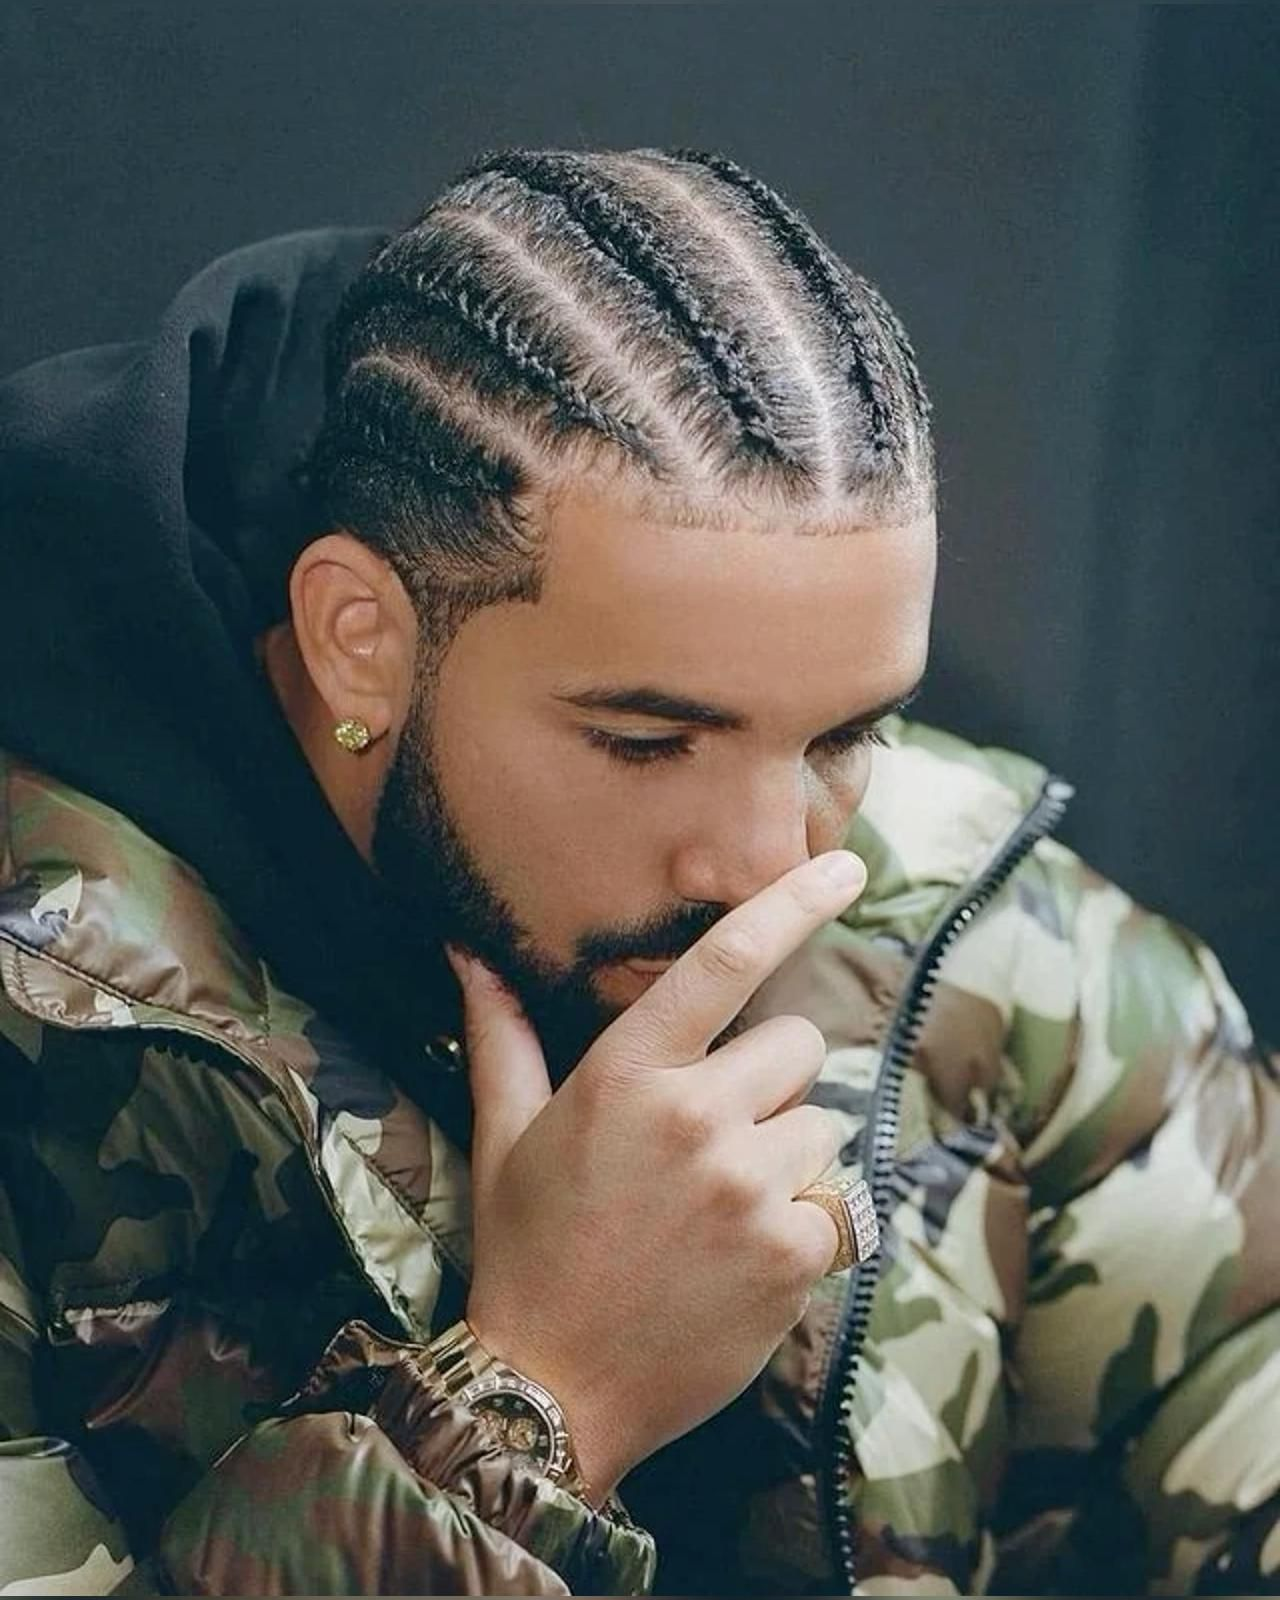
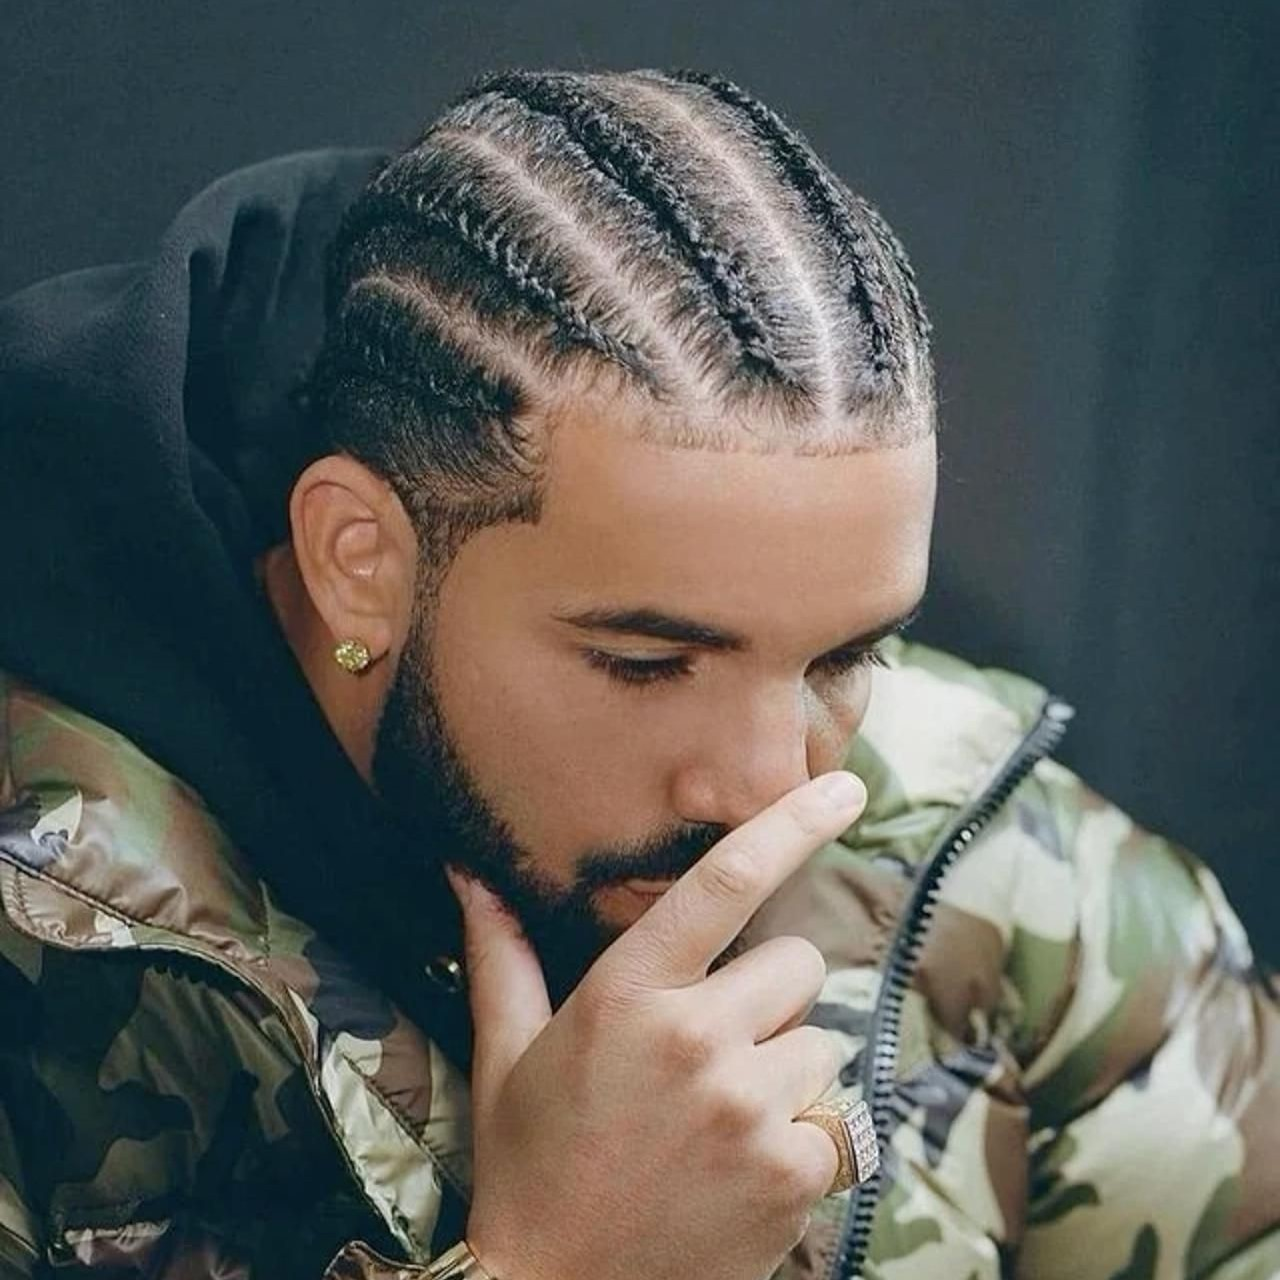
:lipstick: feat: Altera o layout CSS da página inicial

diff --git a/index.html b/index.html
@@ -5,64 +5,93 @@
     <meta charset="UTF-8">
     <meta name="viewport" content="width=device-width, initial-scale=1.0">
     <title>Meu Perfil</title>
-    <link rel="stylesheet" href="./assets/css/style.css">
+    <link rel="stylesheet" href="./assets/css/reset.css" />
+    <link rel="stylesheet" href="./assets/css/style.css" />
 </head>
 
 <body>
-    <ul id="menu">
-        <li>
-            <a href="index.html">Home</a>
-        </li>
-        <li>
-            <a href="contato.html">Contato</a>
-        </li>
-    </ul>
+    <header>
+        <nav>
+            <img class="logo" src="./assets/img/logo.png" alt="Imagem do logotipo com o nome gabzoom">
 
-    <h1 class="center">Sobre o Gabriel</h1>
+            <ul id="menu">
+                <li>
+                    <a href="index.html">Home</a>
+                </li>
+                <li>
+                    <a href="contato.html">Contato</a>
+                </li>
+            </ul>
+        </nav>
+    </header>
 
+    <main>
+        <h1 class="center">Sobre o Gabriel</h1>
 
-    <div class="container">
-        <div class="p-30">
-            <p class="center">
-                Lorem ipsum dolor sit amet consectetur adipisicing elit. Nam assumenda provident officiis quos maxime
-                dolores
-                sint quidem fuga suscipit fugiat veritatis excepturi quaerat, perspiciatis repellendus in omnis odio
-                harum
-                iste!
-                Lorem ipsum, dolor sit amet consectetur adipisicing elit. Cum ipsam ullam, eum impedit reprehenderit
-                molestias.
-                Illum, hic optio harum placeat dignissimos iusto et amet eaque eum voluptatem quos, possimus commodi.
-            </p>
+        <div class="container">
+            <img class="br-50 wh-250 p-30" src="assets/img/drizzy.jpg" alt="Foto do criador desse conteúdo">
 
-            <p class="center">
-                Lorem ipsum dolor sit, amet consectetur adipisicing elit. Beatae reprehenderit ad quod facilis,
-                quibusdam
-                reiciendis recusandae magnam. Ullam eligendi est excepturi sapiente dolorum fuga repellat alias iste.
-                Delectus,
-                eos libero!
-                Lorem ipsum dolor sit amet, consectetur adipisicing elit. Commodi nesciunt dolor quidem quisquam,
-                pariatur
-                consequuntur eum culpa hic consectetur ullam quibusdam suscipit provident. Accusantium eaque tenetur
-                natus
-                laborum ipsam voluptas?
-            </p>
+            <div class="p-30">
+                <p class="center">
+                    Lorem ipsum dolor sit amet consectetur adipisicing elit. Nam assumenda provident officiis quos
+                    maxime
+                    dolores
+                    sint quidem fuga suscipit fugiat veritatis excepturi quaerat, perspiciatis repellendus in omnis odio
+                    harum
+                    iste!
+                    Lorem ipsum, dolor sit amet consectetur adipisicing elit. Cum ipsam ullam, eum impedit reprehenderit
+                    molestias.
+                    Illum, hic optio harum placeat dignissimos iusto et amet eaque eum voluptatem quos, possimus
+                    commodi.
+                </p>
+
+                <p class="center">
+                    Lorem ipsum dolor sit, amet consectetur adipisicing elit. Beatae reprehenderit ad quod facilis,
+                    quibusdam
+                    reiciendis recusandae magnam. Ullam eligendi est excepturi sapiente dolorum fuga repellat alias
+                    iste.
+                    Delectus,
+                    eos libero!
+                    Lorem ipsum dolor sit amet, consectetur adipisicing elit. Commodi nesciunt dolor quidem quisquam,
+                    pariatur
+                    consequuntur eum culpa hic consectetur ullam quibusdam suscipit provident. Accusantium eaque tenetur
+                    natus
+                    laborum ipsam voluptas?
+                </p>
+            </div>
         </div>
 
-        <div>
-            <img class="br-50 wh-300 p-30" src="assets/img/drizzy.jpg" alt="Foto do criador desse conteúdo"
-                width="100%">
+        <div class="media">
+            <div>
+                <h2 class="center">Meu vídeo predileto:</h2>
+
+                <iframe width="560" height="315" src="https://www.youtube.com/embed/WWggmC8kYZc?si=DK5EI8pshDGw6Szq"
+                    title="YouTube video player" frameborder="0"
+                    allow="accelerometer; autoplay; clipboard-write; encrypted-media; gyroscope; picture-in-picture; web-share"
+                    allowfullscreen>
+                </iframe>
+            </div>
+
+            <div>
+                <h2 class="center">Minha playlist favorita:</h2>
+
+                <iframe style="border-radius:12px"
+                    src="https://open.spotify.com/embed/playlist/2b0Whbxq5kkkcH1usCfhdu?utm_source=generator"
+                    width="100%" height="352" frameBorder="0" allowfullscreen=""
+                    allow="autoplay; clipboard-write; encrypted-media; fullscreen; picture-in-picture" loading="lazy">
+                </iframe>
+            </div>
         </div>
-    </div>
+    </main>
 
-    <h2 class="center">Meu vídeo predileto:</h2>
+    <footer>
+        <img class="logo" src="./assets/img/logo.png" alt="Imagem do logotipo com o nome gabzoom">
 
-    <div class="container">
-        <iframe width="560" height="315" src="https://www.youtube.com/embed/WWggmC8kYZc?si=DK5EI8pshDGw6Szq"
-            title="YouTube video player" frameborder="0"
-            allow="accelerometer; autoplay; clipboard-write; encrypted-media; gyroscope; picture-in-picture; web-share"
-            allowfullscreen>
-        </iframe>
-    </div>
+        <p>
+            Desenvolvido por @gabzoom.<br />
+            Projeto fictício sem fins comerciais.
+        </p>
+    </footer>
 </body>
 
 </html>

diff --git a/assets/css/style.css b/assets/css/style.css
@@ -1,13 +1,35 @@
 /* Estilos da página index.html */
-.center {
-    text-align: center;
+body {
+    background-color: #c8deef;
+    font-family: 'Lexend Deca', sans-serif;
 }
 
-.container {
+nav {
+    background-color: #2e7ba2;
     display: flex;
-    flex-flow: row;
-    justify-content: center;
     align-items: center;
+    justify-content: start;
+}
+
+main {
+    padding-top: 50px;
+    padding-bottom: 50px;
+}
+
+h1,
+h2 {
+    font-size: 40px;
+    font-weight: 700;
+}
+
+p {
+    font-size: 16px;
+    line-height: 20px;
+    font-weight: 400;
+}
+
+.logo {
+    width: 250px;
 }
 
 #menu li {
@@ -17,25 +39,63 @@
 
 #menu li a {
     text-decoration: none;
-    color: black;
+    color: white;
     font-size: 20px;
 }
 
 #menu li a:hover {
-    color: gray;
+    color: gainsboro;
 }
 
 .p-30 {
     padding: 30px;
 }
 
+.p-30 p {
+    text-align: left;
+}
+
 .br-50 {
     border-radius: 50%;
 }
 
-.wh-300 {
-    width: 300px;
-    height: 300px;
+.wh-250 {
+    width: 250px;
+    height: 250px;
+}
+
+.center {
+    text-align: center;
+}
+
+.media {
+    display: flex;
+    justify-content: center;
+    align-items: start;
+    gap: 100px;
+}
+
+.container {
+    display: flex;
+    flex-flow: row;
+    justify-content: center;
+    align-items: center;
+    width: 70%;
+    margin: auto;
+}
+
+.media h2 {
+    margin-bottom: 25px;
+}
+
+footer {
+    display: flex;
+    text-align: center;
+    align-items: center;
+    justify-content: center;
+    background-color: #2e7ba2;
+    color: white;
+    font-size: 20px;
 }
 
 /* Estilos da página contato.html */

diff --git a/assets/css/reset.css b/assets/css/reset.css
@@ -1,0 +1,54 @@
+/* http://meyerweb.com/eric/tools/css/reset/ 
+   v2.0 | 20110126
+   License: none (public domain)
+*/
+
+* {
+    margin: 0;
+    padding: 0;
+    box-sizing: border-box;
+}
+
+html, body, div, span, applet, object, iframe,
+h1, h2, h3, h4, h5, h6, p, blockquote, pre,
+a, abbr, acronym, address, big, cite, code,
+del, dfn, em, img, ins, kbd, q, s, samp,
+small, strike, strong, sub, sup, tt, var,
+b, u, i, center,
+dl, dt, dd, ol, ul, li,
+fieldset, form, label, legend,
+table, caption, tbody, tfoot, thead, tr, th, td,
+article, aside, canvas, details, embed, 
+figure, figcaption, footer, header, hgroup, 
+menu, nav, output, ruby, section, summary,
+time, mark, audio, video {
+	margin: 0;
+	padding: 0;
+	border: 0;
+	font-size: 100%;
+	font: inherit;
+	vertical-align: baseline;
+}
+/* HTML5 display-role reset for older browsers */
+article, aside, details, figcaption, figure, 
+footer, header, hgroup, menu, nav, section {
+	display: block;
+}
+body {
+	line-height: 1;
+}
+ol, ul {
+	list-style: none;
+}
+blockquote, q {
+	quotes: none;
+}
+blockquote:before, blockquote:after,
+q:before, q:after {
+	content: '';
+	content: none;
+}
+table {
+	border-collapse: collapse;
+	border-spacing: 0;
+}
